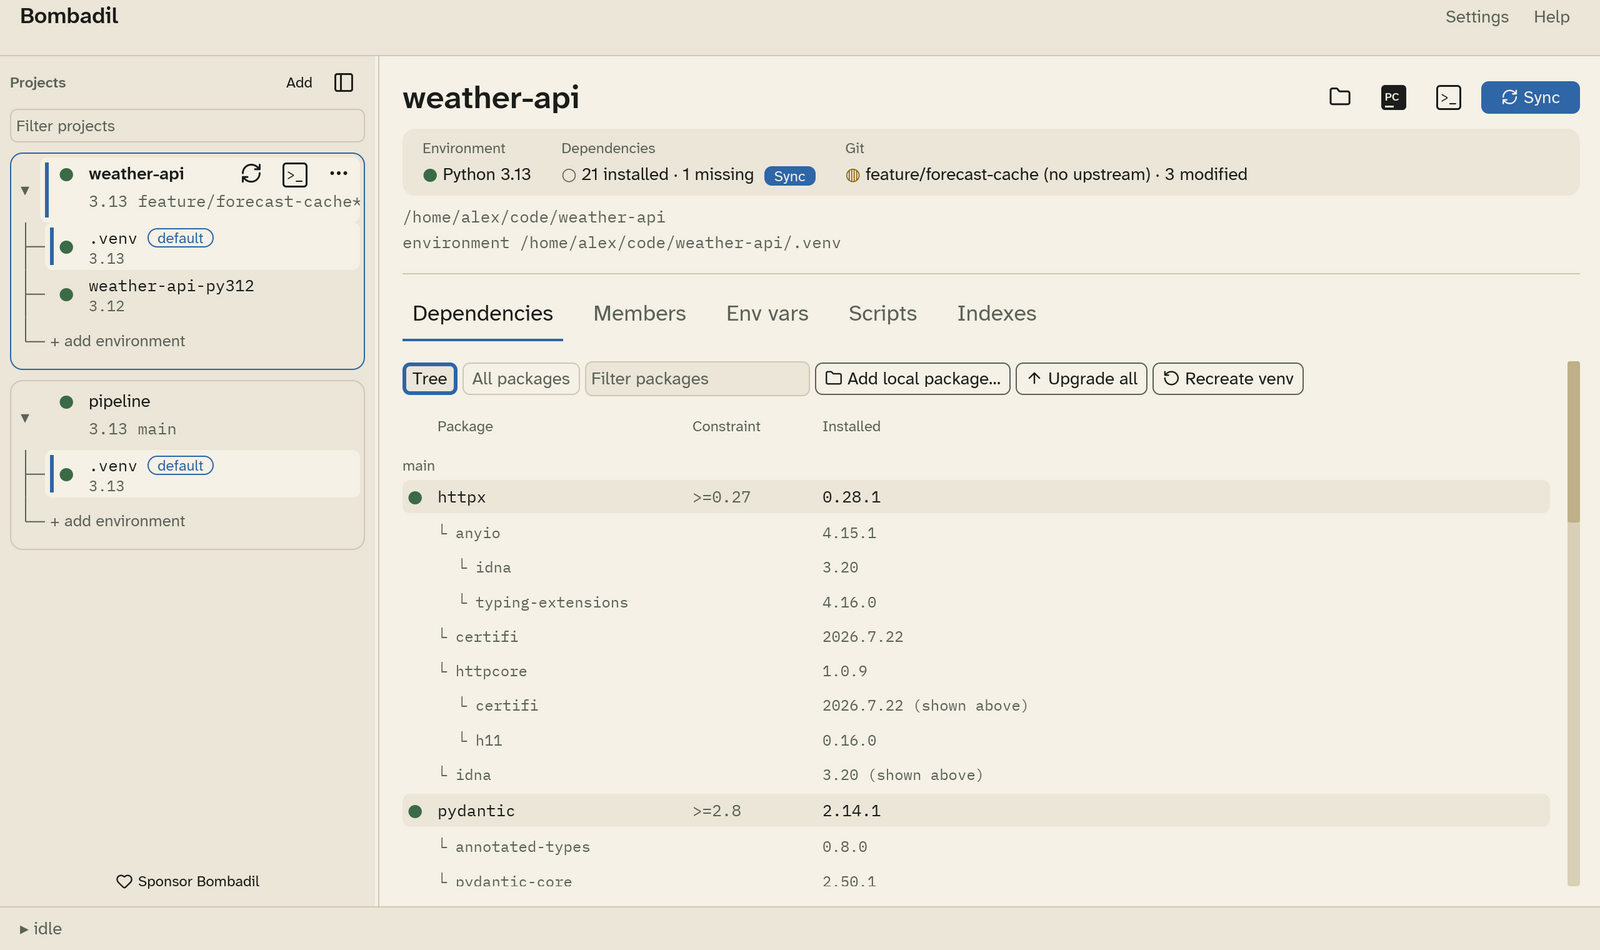
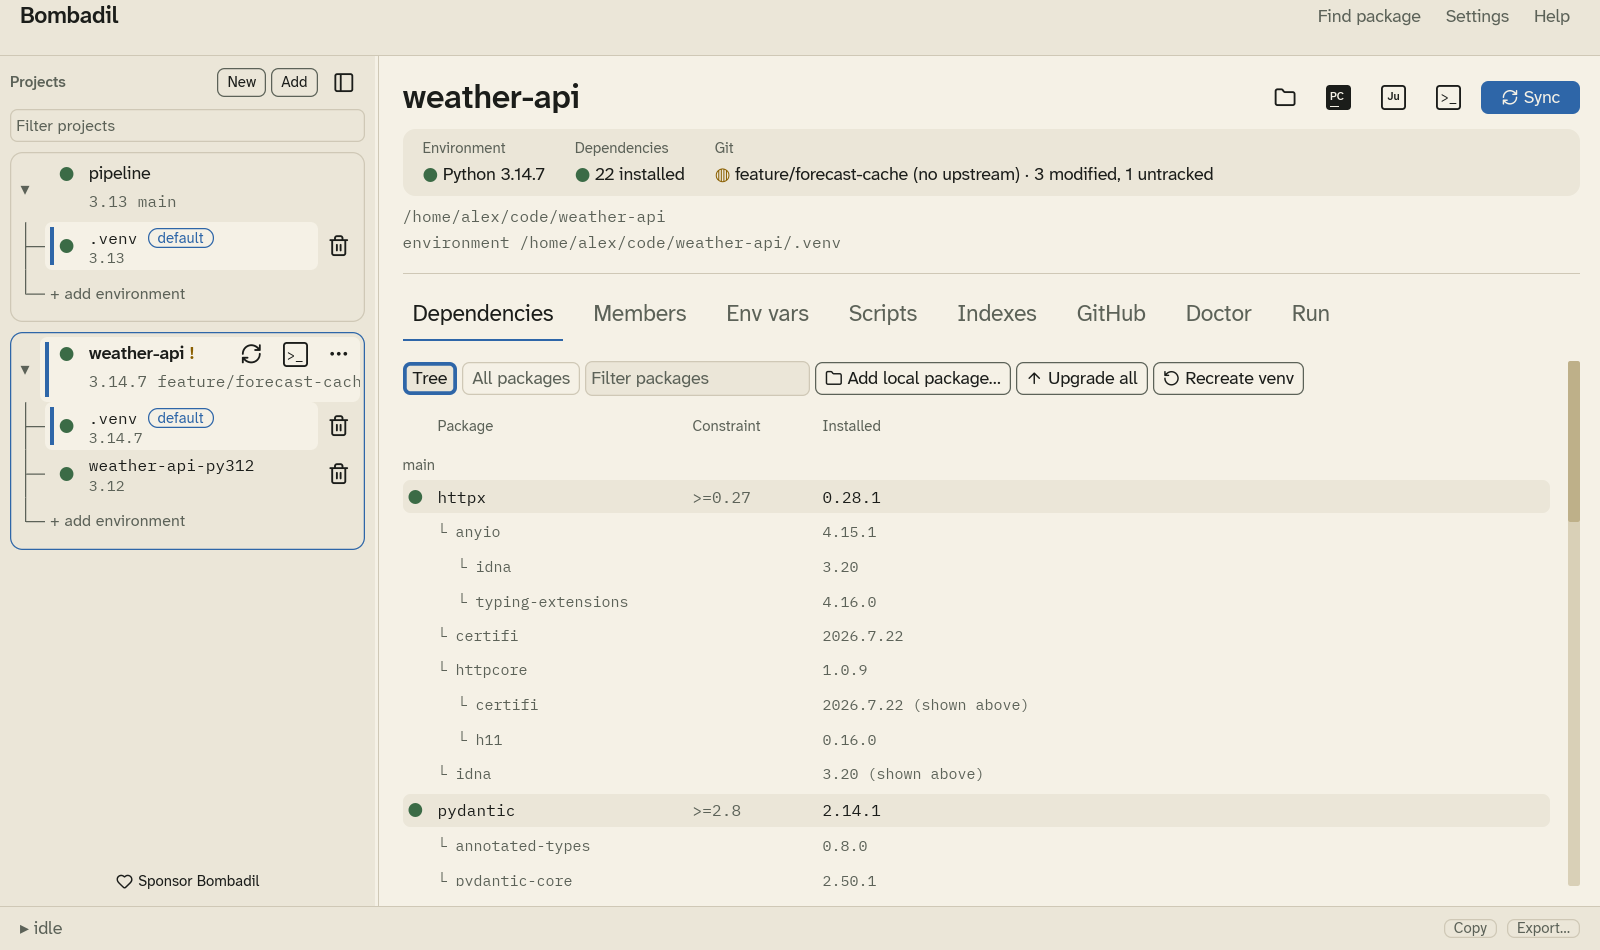
Sync docs with current code (#64)

diff --git a/docs/running.md b/docs/running.md
@@ -2,9 +2,9 @@
 
 The **Run** tab runs a project's code inside its default environment, with the
 same environment variables, secrets and pre-activate scripts a terminal gets.
-The output appears right under the button that started it, as the program
-prints it. The box grows with the output up to a few hundred pixels, then
-scrolls and keeps the newest line in view.
+The output shows up right under the button you pressed, line by line as the
+program prints it. The box grows with the output until it is a few hundred
+pixels tall, then scrolls, keeping the newest line in view.
 
 Each project can have one program running at a time. Other projects keep
 working: you can sync one project while another runs a server.
@@ -20,6 +20,8 @@ it gets a button. Pressing one runs `uv run <name>`. A project made with
 
 ## Just recipes
 
+![A just recipe's output under its Run button](images/run.png)
+
 If the project folder has a justfile (`justfile`, `Justfile` or `.justfile`),
 its recipes are listed with the comment above each one and their parameters.
 Private recipes (named with a leading `_`, or marked `[private]`) are left
@@ -34,13 +36,14 @@ out.
   parameter without a default has a value, and its tooltip says which.
 
 Bombadil comes with its own copy of `just`, so you don't need to install it.
-If `just` is on your `PATH`, Bombadil uses that one instead. You can change
-this in [Settings](settings.md#just). Above the recipes, the tab says which
-`just` it is using: "Using the bundled just 1.58.0", or "Using just from
-PATH" followed by its location. If you choose **from PATH** and `just`
-isn't on your `PATH`, the tab says so and links to how to install it. If the
-justfile has a mistake, the tab shows just's own message. On Windows, `just` runs recipes
-with `sh` unless the justfile sets `windows-shell`.
+If you have `just` on your `PATH`, Bombadil uses yours instead; you can change
+this in [Settings](settings.md#just). The line above the recipes says which
+one is in use, for example "Using the bundled just 1.58.0" or "Using just from
+PATH (/usr/bin/just)". If you pick **from PATH** and there is no `just` on
+it, the tab says so and links to the install instructions.
+
+If the justfile has a mistake, the tab shows just's own message. On Windows,
+`just` runs recipes with `sh` unless the justfile sets `windows-shell`.
 
 ## Saved commands
 
@@ -62,8 +65,9 @@ added to your saved commands, so it is one click the next time.
 
 The **Ju** button in the project header, next to PyCharm, starts JupyterLab
 for the project and opens it in your browser. Bombadil switches to the Run
-tab, where JupyterLab's output and **Stop** are. JupyterLab runs from a temporary install: your project's
-dependencies and `uv.lock` don't change.
+tab, where you'll find JupyterLab's output and **Stop**. JupyterLab runs from
+a temporary install, so your project's dependencies and `uv.lock` don't
+change.
 
 ## Stopping
 

diff --git a/docs/settings.md b/docs/settings.md
@@ -19,6 +19,7 @@ The buttons at the top choose what you are editing:
 | [Environments](#environments) | default location | the project's environments |
 | [Python](#python) | default pin for new environments | the default environment's pin |
 | [uv](#uv) | yes | yes (auto, bundled or from PATH) |
+| [just](#just) | yes | no (applies to every project) |
 | [Terminal](#terminal) | yes | yes |
 | [PyCharm](#pycharm) | yes | no (applies to every project) |
 | [Scripts](#scripts) | global scripts | in the project's Scripts tab |
@@ -44,8 +45,8 @@ The buttons at the top choose what you are editing:
   for example `~/.venvs/weather-api-3f9a2c`.
 
 **Check installed packages for known vulnerabilities** asks osv.dev about the
-installed packages of the project you are looking at. It sends package names
-and versions only. It is on by default; see
+installed packages of the project you are looking at, sending their names
+and versions. It is on by default; see
 [Known vulnerabilities](dependencies.md#known-vulnerabilities).
 
 ![Environment and uv settings](images/prefs-envs.png)
@@ -91,7 +92,7 @@ Which uv binary Bombadil runs:
 |---|---|
 | **auto** (default) | uv from `PATH` if it is version 0.12.1 or newer, otherwise the copy bundled with Bombadil. |
 | **bundled** | Always the bundled copy. |
-| **from PATH** | Always uv from `PATH`. Fails with an error, rather than falling back, if there is none. |
+| **from PATH** | Always uv from `PATH`. If there is none, Bombadil shows an error. |
 | **path to a uv binary** | A specific binary. Type its path and click **validate and use**. Bombadil runs it to check its version before using it. |
 
 In a project's scope you can override the choice with **auto**, **bundled**
@@ -108,7 +109,7 @@ only.
 |---|---|
 | **auto** (default) | `just` from `PATH` if there is one, otherwise the copy bundled with Bombadil. |
 | **bundled** | Always the bundled copy. |
-| **from PATH** | Always `just` from `PATH`. If there is none, the Run tab says so instead of falling back. |
+| **from PATH** | Always `just` from `PATH`. If there is none, the Run tab says so. |
 
 ## Terminal
 

diff --git a/docs/main-window.md b/docs/main-window.md
@@ -26,7 +26,8 @@ the status mark and name. The second line shows the Python version and the Git
 branch, with a `*` when the working tree has changes.
 
 - **Filter projects** narrows the list as you type.
-- **Add** adds a project.
+- **New** creates a project from scratch with `uv init`, and **Add** adds an
+  existing one.
 - The panel button next to **Add** collapses the sidebar. The shortcut is
   ++ctrl+b++. Drag the sidebar's edge to resize it.
 - Hover a project to show its **Sync**, **terminal** and **⋯** buttons.
@@ -69,8 +70,9 @@ environment is marked **default**.
 
 The project view has a header with the project's name, action buttons and
 status tiles. The buttons open the project folder, PyCharm,
-[Jupyter](running.md#jupyter) and a terminal, and run Sync. Below that are the **path** of the project and of its default
-environment, then the tabs. You can drag the tabs to reorder them.
+[Jupyter](running.md#jupyter) and a terminal, and run Sync. Below that are the
+**path** of the project and of its default environment, then the tabs. You can
+drag the tabs to reorder them.
 
 | Tab | What it is for |
 |---|---|
@@ -79,7 +81,7 @@ environment, then the tabs. You can drag the tabs to reorder them.
 | [Env vars](env-vars.md) | The project's environment variables and secrets. |
 | [Scripts](scripts.md) | Shell scripts to run before the environment is used. |
 | [Indexes](indexes.md) | Which private package indexes this project uses. |
-| [Run](running.md) | Run entry points, saved commands, a file or Jupyter. |
+| [Run](running.md) | Run entry points, just recipes, saved commands or a file. |
 
 ## Drawer
 

diff --git a/docs/dependencies.md b/docs/dependencies.md
@@ -55,17 +55,17 @@ packages** for the ones they pull in.
 
 When the Dependencies tab loads and after each sync, Bombadil asks
 [osv.dev](https://osv.dev), a free database of security advisories, whether
-any installed package has a known vulnerability. It sends package names and
-versions, nothing else, and asks again only when the installed packages
-change, or after a day.
+any installed package has a known vulnerability. It sends only the names and
+versions of published packages, never anything about your own projects or
+workspace members, and asks again only when the installed packages change or
+a day has passed.
 
 A package with a known vulnerability has a **!** beside its name, and the
 project shows a warning such as "2 packages have known vulnerabilities". Open
 the package's details to read each advisory; click its id to read more.
 **Upgrade to …** installs the one version that fixes every advisory with a
 published fix, and says how many that is. An advisory with no fix yet says
-so. Bombadil also sends nothing about your own projects or workspace members,
-only published packages.
+so.
 
 Without an internet connection the check is skipped, and the tab says
 "Couldn't check for vulnerabilities". To stop the check altogether, untick it

diff --git a/docs/github.md b/docs/github.md
@@ -50,12 +50,11 @@ enter the one-time code at [github.com/login/device](https://github.com/login/de
 and approve Bombadil. GitHub asks for the `repo` scope, which private
 repositories need; Bombadil only reads with it. **Remove** signs out.
 
-Or add a personal access token in **Settings › GitHub pull
-requests**. A fine-grained token with read-only access to *Pull requests*,
-*Checks* and *Commit statuses* is enough. Either token is stored in the system keychain,
+Or add a personal access token in **Settings › GitHub pull requests**. A
+fine-grained token with read-only access to *Pull requests*, *Checks* and
+*Commit statuses* is enough. Either token is stored in the system keychain,
 never in the configuration file, and only github.com is reached this way.
-
-Bombadil never changes anything on GitHub.
+Bombadil only reads from GitHub; it never changes anything there.
 
 ## Turning it off
 

diff --git a/README.md b/README.md
@@ -69,6 +69,13 @@ and never read back to be redisplayed.
 **Private indexes.** Name, URL, and credentials in the keychain, injected as
 `UV_INDEX_*` at sync time. Global by default, selectable per project.
 
+**Run things.** The Run tab runs a project's entry points, its `just` recipes
+and your saved commands inside the environment, and streams the output right
+under the button you pressed, with Stop ending the whole process tree. `just`
+is bundled; your own on `PATH` is used when there is one. The **Ju** button in
+the header starts JupyterLab from a temporary install, leaving the project's
+dependencies alone.
+
 **Pre-activate scripts.** Shell scripts run before an environment is used, in an
 order you control, with their exported variables composed into everything
 Bombadil launches.

diff --git a/docs/index.md b/docs/index.md
@@ -34,7 +34,11 @@ terminal and PyCharm with the environment activated.
 - Set environment variables globally or per project. Secrets live in your OS
   keychain and are never written to the config file.
 - Use private package indexes, with their credentials kept in the keychain.
-- Open a terminal or PyCharm with the environment already activated.
+- Run a project's entry points, just recipes and saved commands inside its
+  environment, with the output right under the button you pressed. just comes
+  bundled, so it doesn't need installing.
+- Open a terminal, PyCharm or JupyterLab with the environment already
+  activated.
 - Close the window and keep Bombadil in the system tray, which has a menu for
   every project.
 

diff --git a/docs/gotchas.md b/docs/gotchas.md
@@ -83,9 +83,10 @@ the window back.
 ## The uv in use isn't the one you expected
 
 With **auto**, Bombadil uses uv from `PATH` only if it is version 0.12.1 or
-newer. Otherwise it uses its bundled copy without saying so. If you need one specific
-uv, pick **from PATH** or a binary in [Settings › uv](settings.md#uv).
-Explicit choices fail loudly instead of falling back.
+newer. Otherwise it uses its bundled copy without saying so. If you need one
+specific uv, pick **from PATH** or a binary in [Settings › uv](settings.md#uv).
+With either of those, a missing or unusable uv is an error and Bombadil
+doesn't switch to the bundled one.
 
 ## Moving a project changes its central environment
 

diff --git a/docs/getting-started.md b/docs/getting-started.md
@@ -81,6 +81,8 @@ The buttons at the top right of a project are, from left to right:
 - **Folder**: opens the project folder in your file manager.
 - **PC**: opens the project in PyCharm, with the environment set as its
   interpreter. See [Terminals and PyCharm](terminals-pycharm.md).
+- **Ju**: starts JupyterLab with the environment. See
+  [Running code](running.md#jupyter).
 - **>_**: opens a terminal in the project folder with the environment
   activated. The shortcut is ++ctrl+t++.
 - **Sync**: runs `uv sync`, as in step 3.

diff --git a/docs/configuration.md b/docs/configuration.md
@@ -22,6 +22,9 @@ schema_version = 2
 [settings]
 theme = "system"            # "system" | "light" | "dark"
 close_to_tray = true
+watch_github = true         # look up each project's pull request
+check_vulnerabilities = true  # ask osv.dev about installed packages
+just_source = "auto"        # "auto" | "bundled" | "from_path"
 # pycharm = "/opt/pycharm/bin/pycharm.sh"   # omit to detect automatically
 
 [settings.uv_source]

diff --git a/docs/terminals-pycharm.md b/docs/terminals-pycharm.md
@@ -1,5 +1,9 @@
 # Terminals and PyCharm
 
+The project header has a button for each: **>_** opens a terminal and **PC**
+opens PyCharm. The **Ju** button next to them starts JupyterLab; see
+[Running code](running.md#jupyter).
+
 ## Open a terminal
 
 Click the **>_** button on a project, or press ++ctrl+t++. A terminal opens

diff --git a/docs/install.md b/docs/install.md
@@ -1,7 +1,7 @@
 # Install
 
-Bombadil bundles its own copy of uv, so you don't need to install anything
-else.
+Bombadil comes with its own copies of uv and just, so you don't need to
+install anything else.
 
 === "Installer"
 
